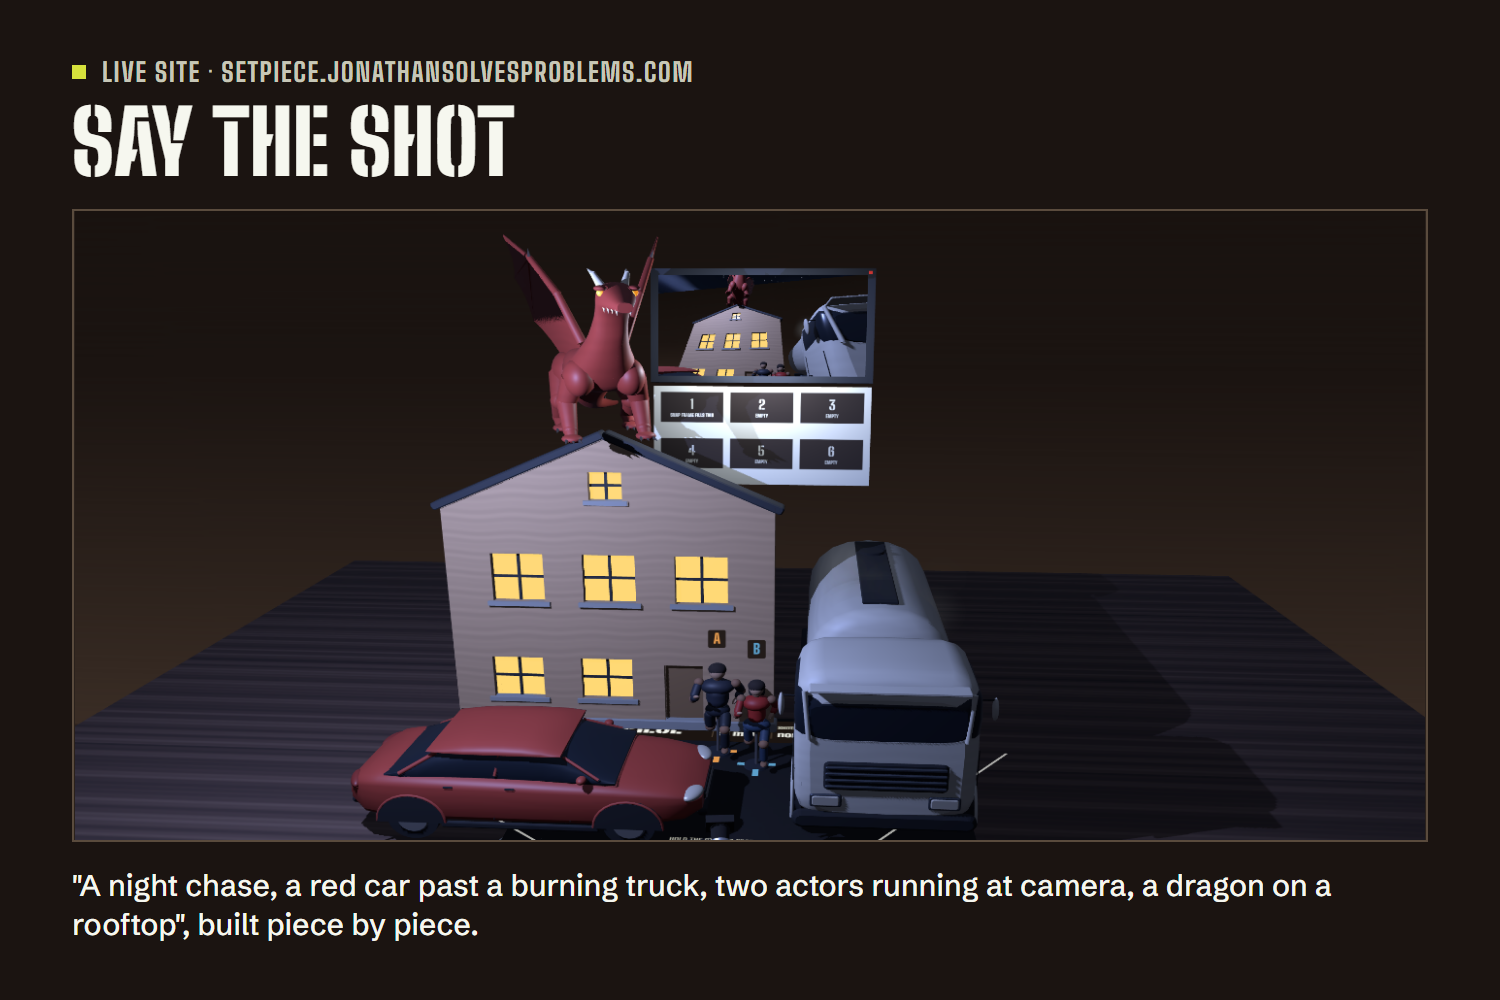
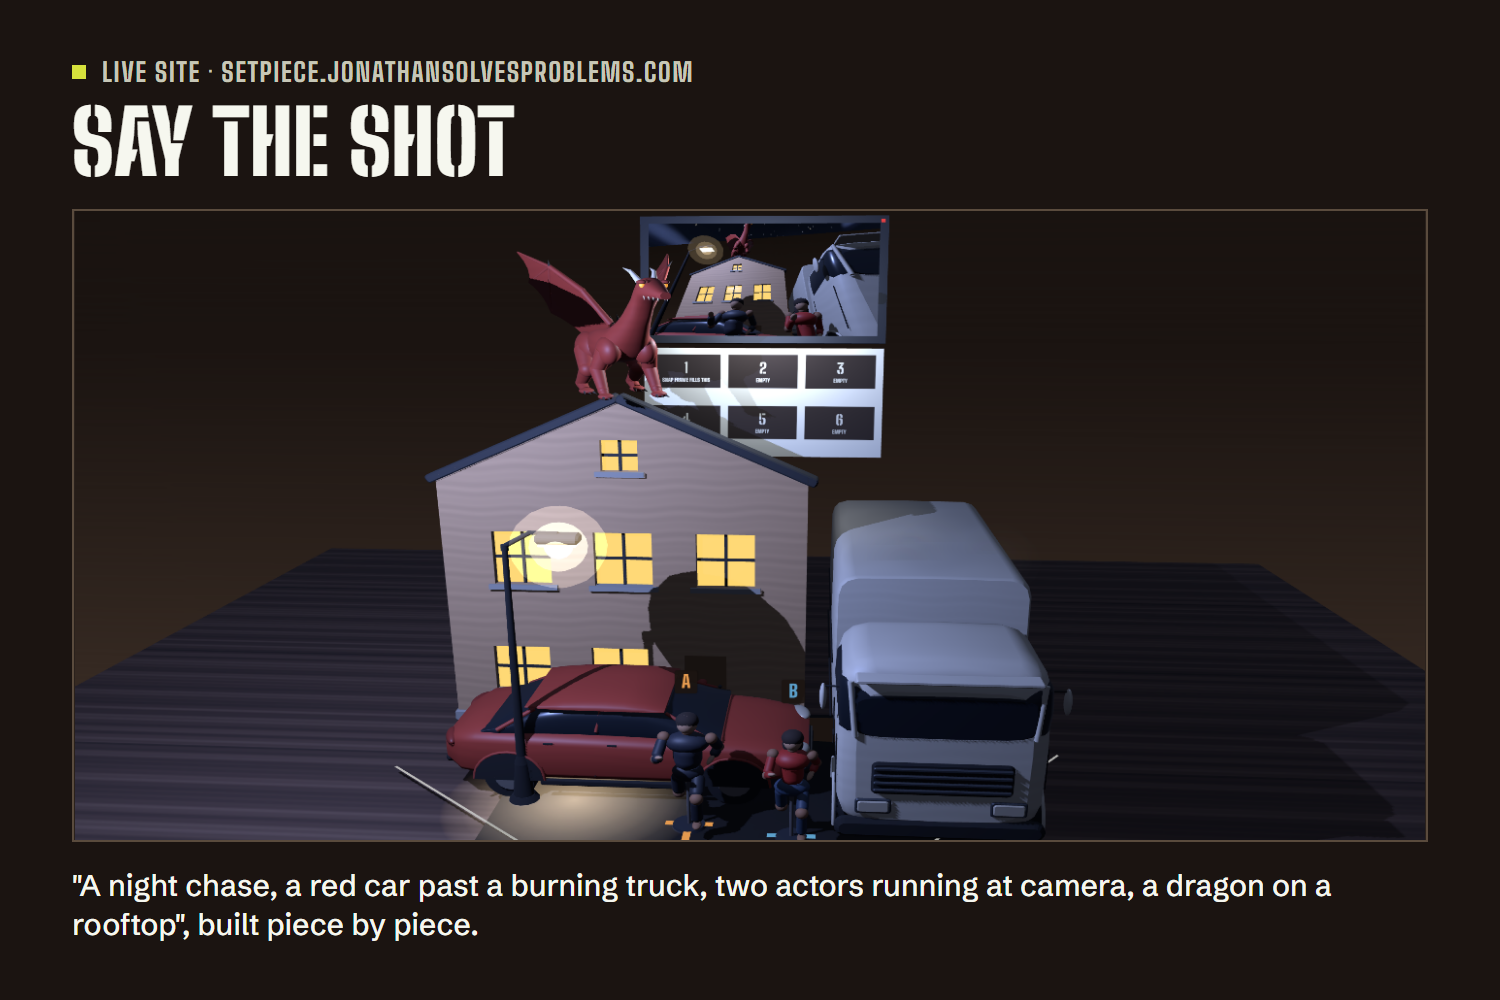
What burns belongs to the nearest solid piece it lies within and stands just under its top, where the pieces' own rule keeps it: asked for a burning truck, the fire had been tied to a lower piece and moved away, or fell back inside the truck

Changed region(s): [[0.2147, 0.217, 0.7053, 0.837], [0.8587, 0.589, 0.9507, 0.713]]

diff --git a/src/director.ts b/src/director.ts
@@ -87,13 +87,14 @@ const BODY_HALF = 0.025;
 /** Higher than this off the ground, a piece is up on something or flying, and the set dresser leaves it be. */
 const RAISED = 0.01;
 /**
- * How tall each burning effect is, on the slate. One standing on the ground inside a solid piece taller than this
- * share of it is hidden, and is stood so that this share of it is sunk below the piece's top: fire on a truck burns
- * from the truck's roof, not inside its box.
+ * How tall each burning effect is, on the slate. One inside a solid piece taller than this share of it is hidden,
+ * and is stood this far below the piece's top (2 cm: 20 cm at full size): fire on a truck burns from the truck's
+ * roof, not inside its box. No lower than that, or the pieces' own rule (STACK_SLACK in src/pieces.ts) counts it as
+ * standing on nothing and lets it fall to the slate the next time the set changes.
  */
 const BURNS: Record<string, number> = { Fire: 0.18, Smoke: 0.3, Sparks: 0.12, Explosion: 0.2 };
 const BURN_HIDDEN = 0.45;
-const BURN_SUNK = 0.3;
+const BURN_SUNK = 0.02;
 /** A piece the set dresser moves less than this (slate metres, 10 cm real) is slid, not dropped again. */
 const NUDGE = 0.01;
 /** A raised piece rests on a top no more than this above its own height (slate metres, 6 cm real). */
@@ -796,6 +797,27 @@ class PlanBuild {
       let best: Standing | null = null;
       let bestTop = 0;
       let score = Infinity;
+      // Fire, smoke, sparks and an explosion belong to the thing that burns: the nearest solid piece (a vehicle, a
+      // building, something made) they lie within, at whatever height they were written. They burn from near its
+      // top; on something low they stay where they were put.
+      const reach = BURNS[one.base.spareOf ?? one.base.label];
+      if (reach !== undefined) {
+        for (const support of supports) {
+          const burns = support.one.base.solid === true || isMade(support.one.label);
+          if (!burns || support.one === one || !holds(support.foot, one.object.position.x, one.object.position.z)) continue;
+          const far = Math.hypot(support.foot.x - one.object.position.x, support.foot.z - one.object.position.z);
+          if (far < score) {
+            score = far;
+            best = support.one;
+            bestTop = support.top;
+          }
+        }
+        if (best != null) {
+          under.set(one, best);
+          if (this.placed.has(one.label) && bestTop > reach * BURN_HIDDEN) lifts.push([one, bestTop - BURN_SUNK]);
+          continue;
+        }
+      }
       for (const support of supports) {
         if (support.one === one || !holds(support.foot, one.object.position.x, one.object.position.z)) continue;
         if (raised && support.top > one.rest + RESTS_ON) continue;
@@ -807,9 +829,6 @@ class PlanBuild {
         }
       }
       if (best != null) under.set(one, best);
-      // Flames put on the ground inside the thing that burns are hidden by it: they go up to burn from its top.
-      const reach = BURNS[one.base.spareOf ?? one.base.label];
-      if (best != null && !raised && reach !== undefined && this.placed.has(one.label) && bestTop > reach * BURN_HIDDEN) lifts.push([one, bestTop - reach * BURN_SUNK]);
     }
     const moves: Moved[] = [];
     const apply = (feet: Footing[], owners: (Standing | null)[]): void => {
@@ -877,14 +896,21 @@ class PlanBuild {
       moves.push({ standing: one, dx: move.dx, dz: move.dz, foot: move.foot });
     }
     // A piece moved far enough to see drops onto its new mark; a nudge is only a nudge.
-    for (const move of moves) {
-      if (Math.hypot(move.dx, move.dz) >= NUDGE) drop(move.standing.entity, move.standing.object, move.standing.rest);
-    }
+    // What burns goes up to its place first, so a piece that was also moved drops once, onto the right height.
+    const pieces = this.world.getSystem(PiecesSystem);
     for (const [one, y] of lifts) {
       one.rest = y;
       this.restY.set(one.label, y);
-      drop(one.entity, one.object, y);
+      // It was put down on the ground or in the air inside the piece, and may be falling from there.
+      pieces?.stay(one.entity);
     }
+    const dropped = new Set<Standing>();
+    for (const move of moves) {
+      if (Math.hypot(move.dx, move.dz) < NUDGE || dropped.has(move.standing)) continue;
+      dropped.add(move.standing);
+      drop(move.standing.entity, move.standing.object, move.standing.rest);
+    }
+    for (const [one, y] of lifts) if (!dropped.has(one)) drop(one.entity, one.object, y);
     this.world.getSystem(ViewfinderSystem)?.refresh();
     return moves.length;
   }

diff --git a/src/pieces.ts b/src/pieces.ts
@@ -452,6 +452,11 @@ export class PiecesSystem extends createSystem({
     this.drops.push({ piece, speed: 0, floor });
   }
 
+  /** Calls off a fall under way for this piece: it has been stood somewhere, and stays there. */
+  stay(piece: Entity): void {
+    for (let i = this.drops.length - 1; i >= 0; i--) if (this.drops[i].piece === piece) this.drops.splice(i, 1);
+  }
+
   /** The set changed: nothing is carried that is no longer on it, and nothing stands on what has gone. */
   private setChanged(): void {
     for (const side of SIDES) {

diff --git a/devpost/checks/last-run.md b/devpost/checks/last-run.md
@@ -1,20 +1,20 @@
 # Live site checks
 
-Run on 2026-11-16 22:35 UTC against https://setpiece.jonathansolvesproblems.com/ by `node tools/check-live.mjs`. Build served: f8dccae-20261116T2234.
+Run on 2026-11-16 23:40 UTC against https://setpiece.jonathansolvesproblems.com/ by `node tools/check-live.mjs`. Build served: d16d247-20261116T2339.
 
 **54 of 54 passed.**
 
 | Check | Result | Detail |
 |---|---|---|
-| the page answers over HTTPS | pass | 200, 260 ms |
+| the page answers over HTTPS | pass | 200, 281 ms |
 | it is Setpiece | pass |  |
 | search engines are allowed to index it | pass | no X-Robots-Tag |
 | the loading card is in the page | pass |  |
 | the page controls start locked until the set is ready | pass |  |
 | the page signs itself | pass |  |
-| the app script is named in the page | pass | assets/index-Dx8GAMAf.js |
+| the app script is named in the page | pass | assets/index-CxZdyQwr.js |
 | version.json is served | pass | 200 |
-| version.json names a build | pass | f8dccae-20261116T2234 |
+| version.json names a build | pass | d16d247-20261116T2339 |
 | the app script is served | pass | 200, 2.71 MB |
 | the app script is under 3 MB | pass | 2.71 MB |
 | the served script carries the same build as version.json | pass |  |
@@ -35,11 +35,11 @@ Run on 2026-11-16 22:35 UTC against https://setpiece.jonathansolvesproblems.com/
 | the page has the Shot box and three shots to try | pass |  |
 | the set designer answers and has its key | pass | 200, ready true |
 | another site is refused by the set designer | pass | 403 |
-| a sentence comes back as a set with a horse in it | pass | 200, end_turn, first piece of the reply at 847 ms, whole 2405 ms |
-| the reply carries a pass for the line it will speak | pass | "A horse stands in an open field at dawn, framed side-on with" |
-| the reply streams: its first part arrives well before its last | pass | 74 parts, the first 911 ms after the request and the last at 2404 ms |
+| a sentence comes back as a set with a horse in it | pass | 200, end_turn, first piece of the reply at 843 ms, whole 2124 ms |
+| the reply carries a pass for the line it will speak | pass | "A horse stands in a field with a tree and a fence behind, fr" |
+| the reply streams: its first part arrives well before its last | pass | 59 parts, the first 915 ms after the request and the last at 2119 ms |
 | the voice answers and has its key | pass | 200, ready true |
-| the designer's line comes back read aloud | pass | 200, audio/mpeg, 56468 bytes in 382 ms |
+| the designer's line comes back read aloud | pass | 200, audio/mpeg, 52706 bytes in 333 ms |
 | words with no pass, or with the pass of another line, are not read | pass | 403, 403 |
 | another site is refused by the voice | pass | 403 |
 | the designer's 12 recorded lines are served in both voices | pass | 24 of 24 files |
